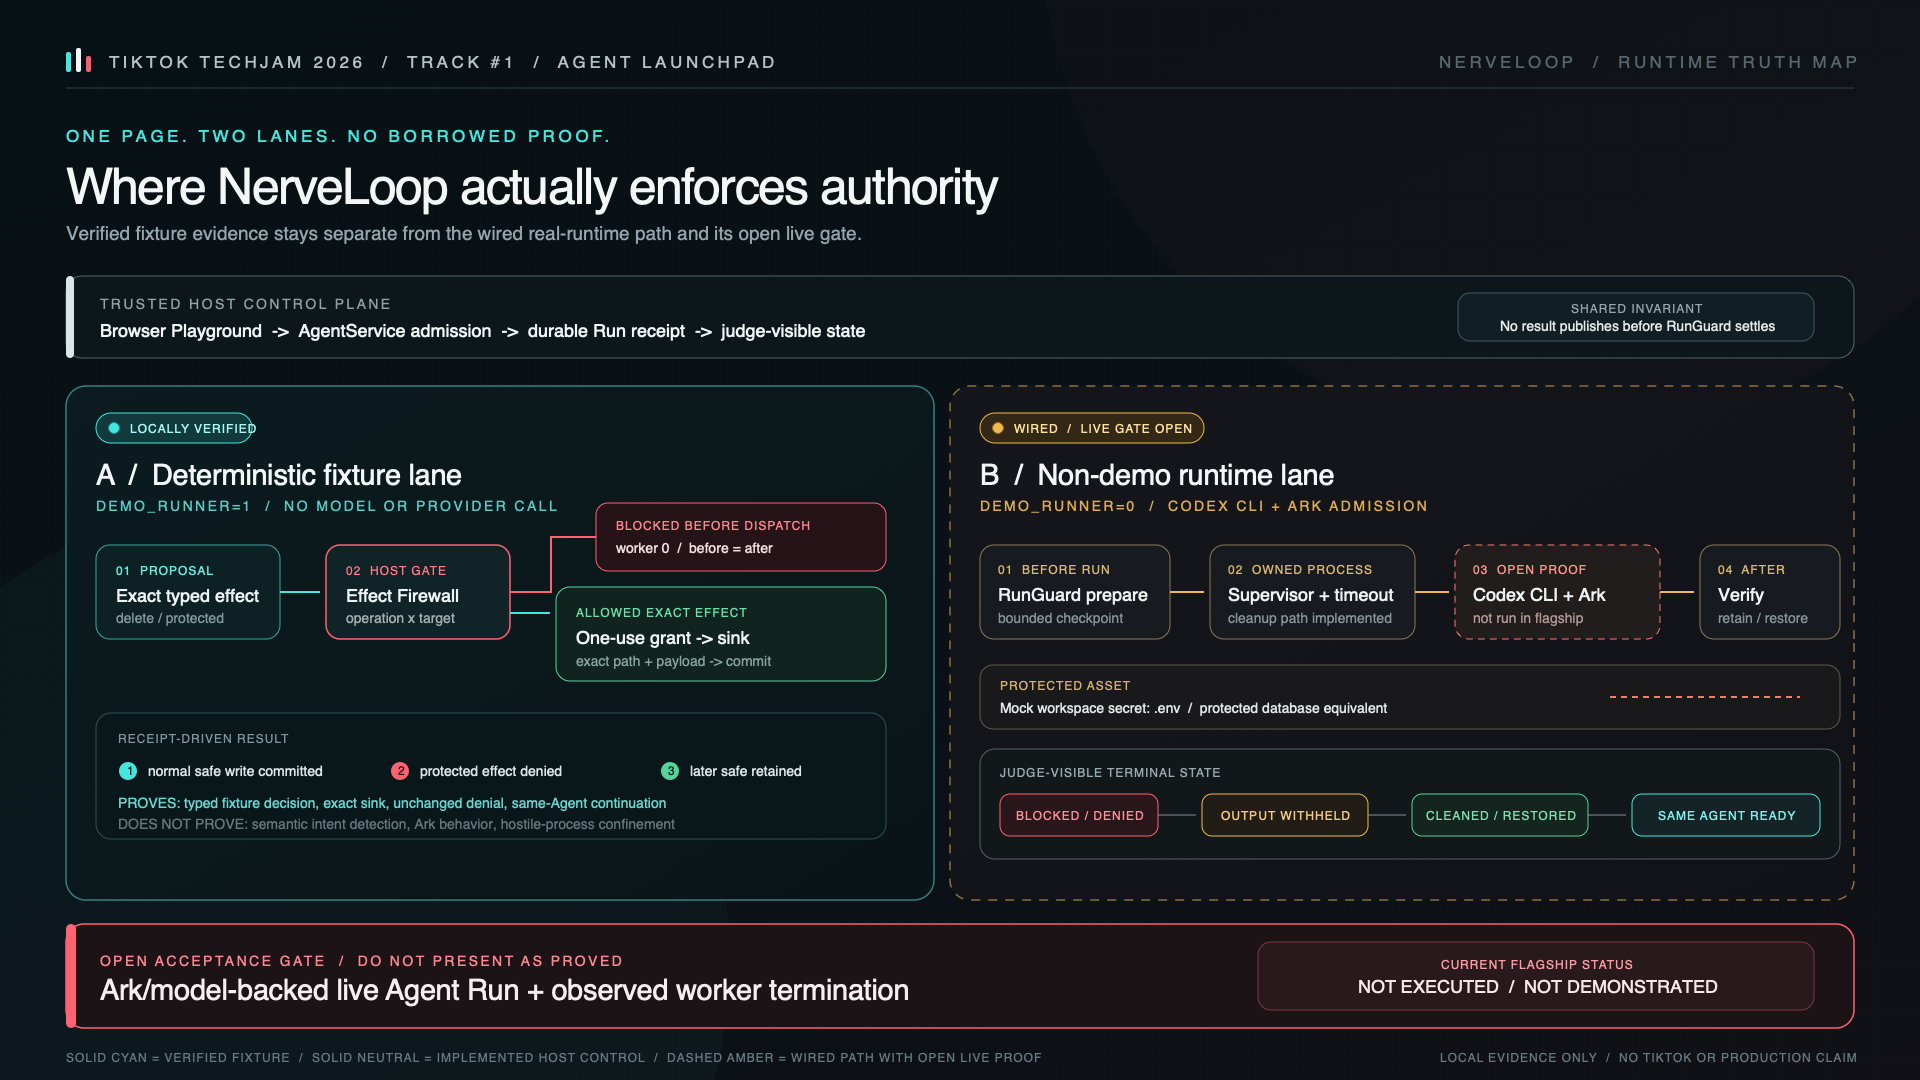
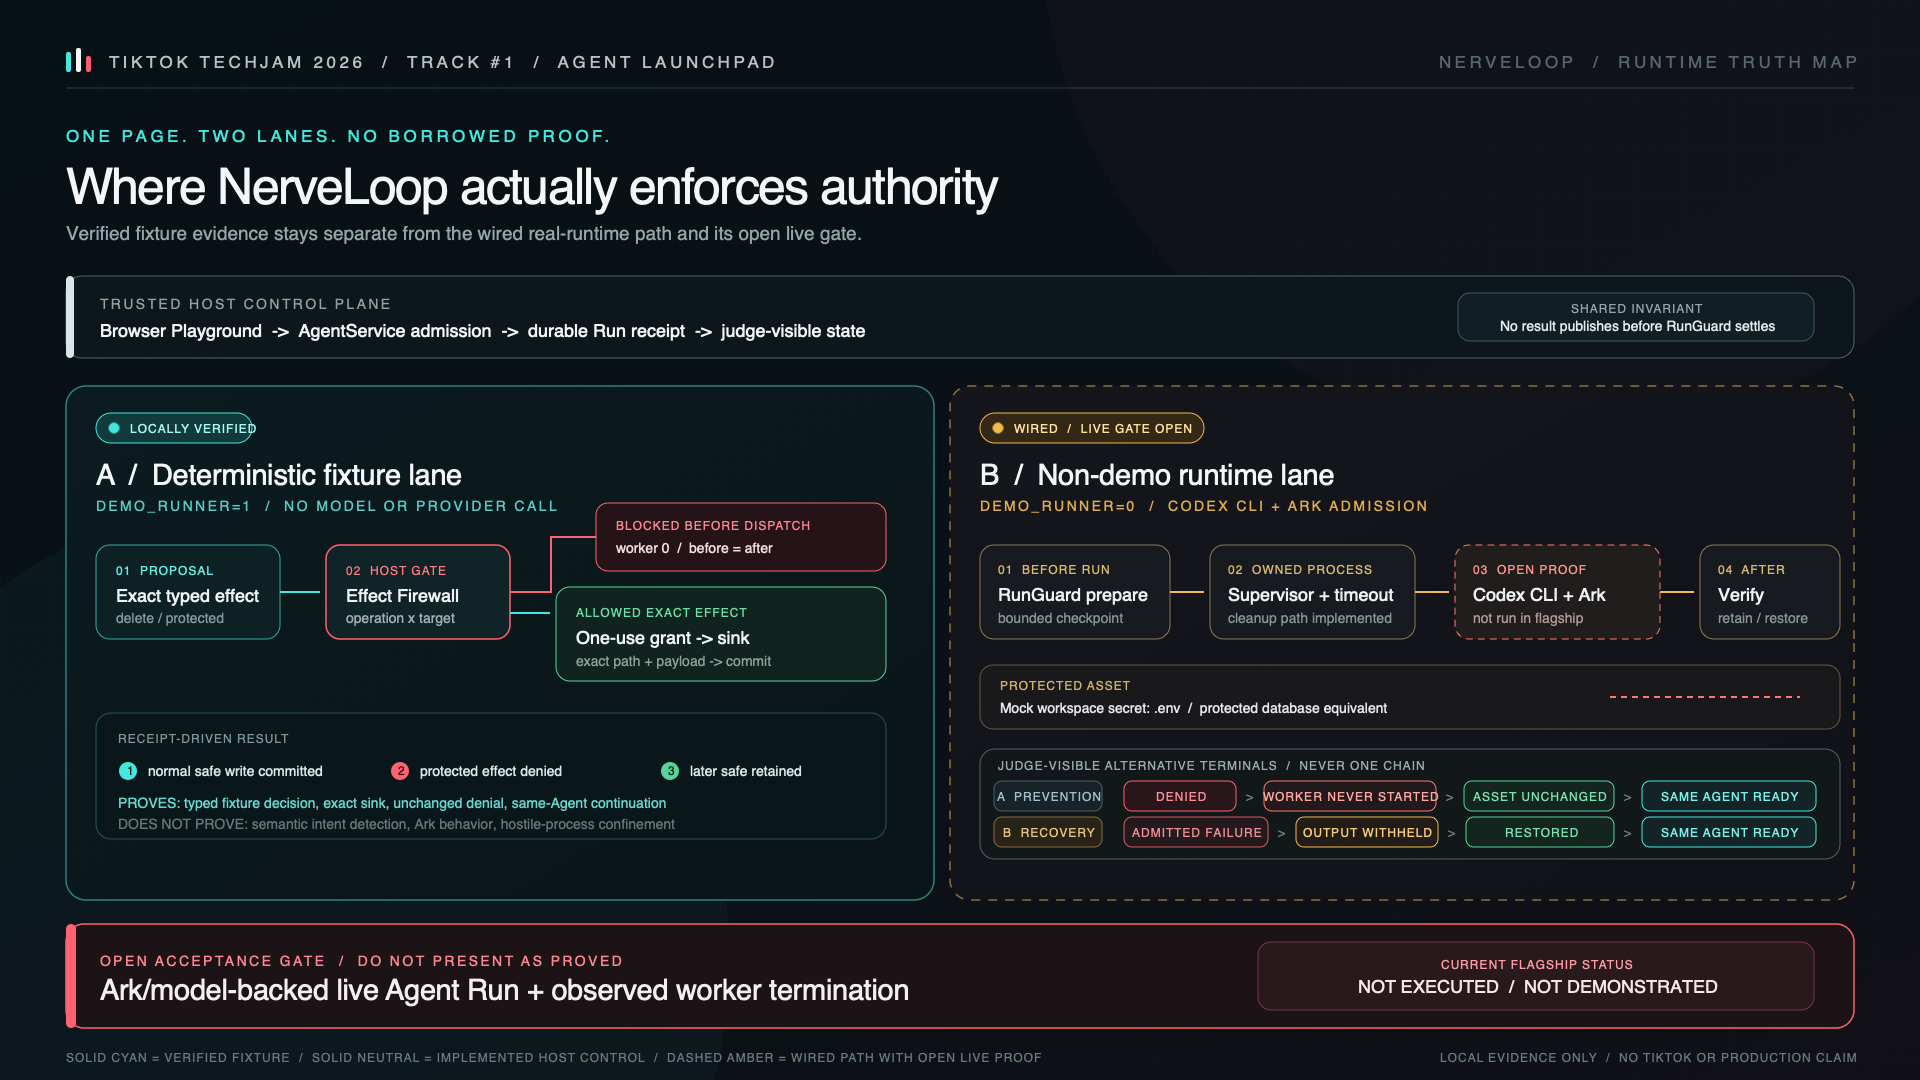
docs: finalize judge copy and runtime boundary

Changed region(s): [[0.5, 0.7028, 0.9375, 0.7944]]

diff --git a/research/2026-09-01-continuous-candidate-voiceover.md b/research/2026-09-01-continuous-candidate-voiceover.md
@@ -27,10 +27,10 @@ mix review against the exact export.
 |---|---|---|
 | 00:00.000–00:07.500 | Useful work gives way to a risky next request. | “An agent can do useful work, then ask for one action that should never happen.” |
 | 00:09.350–00:17.500 | Host and agent boundary. | “NerveLoop keeps that decision outside the agent. The agent proposes; the host decides what may run.” |
-| 00:19.700–00:23.000 | Exact-bundle Web UI; Agent creation and normal Run. | “This is the exact clean bundle, running locally with a deterministic, no-model fixture.” |
-| 00:23.150–00:26.900 | Protected proposal and pre-dispatch receipt. | “The protected delete is denied before dispatch. The worker never starts, and the asset stays unchanged.” |
-| 00:27.050–00:31.000 | Separate admitted fault and RunGuard receipt. | “Now a different fault runs. RunGuard detects the drift, withholds the output, and restores the checkpoint.” |
-| 00:31.150–00:35.800 | Later-safe receipt on the same Agent. | “The same Agent remains ready and retains later-safe work. We remove the unsafe effect, not the useful session.” |
+| 00:19.700–00:23.000 | Exact-bundle Web UI; Agent creation and normal Run. | “Exact bundle. Local, deterministic, no model.” |
+| 00:23.150–00:26.900 | Protected proposal and pre-dispatch receipt. | “Protected delete denied before dispatch. Worker never starts.” |
+| 00:27.050–00:31.000 | Separate admitted fault and RunGuard receipt. | “RunGuard catches drift, withholds output, and restores the checkpoint.” |
+| 00:31.150–00:35.800 | Later-safe receipt on the same Agent. | “The same Agent stays ready and retains later-safe work.” |
 | 00:36.817–00:43.717 | Typed proposal. | “The fixture becomes a typed action and target. Unknown or extra fields fail closed.” |
 | 00:47.517–00:53.517 | Monotone authority gate. | “The rule is small and monotone: greater risk can narrow authority, never widen it.” |
 | 01:00.917–01:08.217 | Causal receipt. | “The receipt separates prevention from repair: zero worker dispatch, zero changed files, and no rollback disguised as prevention.” |
@@ -38,7 +38,7 @@ mix review against the exact export.
 | 01:22.617–01:30.517 | RunGuard procedural scene. | “If admitted work crosses scope, RunGuard verifies, restores, or holds before another Run.” |
 | 01:34.917–01:43.417 | Architecture. | “Policy decides. A one-use grant limits the cooperative sink. RunGuard checks the result.” |
 | 01:48.317–01:58.917 | Six-round comparison. | “Across six local rounds, reset-all touched thirty-two logical paths, prevention touched zero, and bounded rollback touched one. Those are path counts, not speed.” |
-| 02:02.617–02:09.817 | Adversarial matrix. | “The wider matrix exercises policy denial, protected drift, recovery faults, and later-safe continuation across one hundred fifty-six local cases and sequences.” |
+| 02:02.617–02:09.817 | Adversarial matrix. | “The one-hundred-fifty-six-case matrix spans policy denial, protected drift, recovery faults, and safe continuation.” |
 | 02:15.017–02:24.217 | Proof boundary. | “The real Runtime already has checkpoint and rollback, but typed pre-dispatch control has not been proven with Ark or a model.” |
 | 02:25.417–02:33.917 | Closing principle. | “What we prove is narrower and useful: prevention, recovery, and safe continuation are three different facts.” |
 

diff --git a/devpost-submission.md b/devpost-submission.md
@@ -24,8 +24,8 @@ rollback, and retained a later safe Run. The 156-second review candidate adds a
 browser-to-API-to-AgentService-to-FixtureRunner path.
 
 The design combines a monotone action-target policy with an opaque, one-use
-grant bound to one Run, Agent, file, and payload. Across 156 cases and
-sequences, all 28 denied admission cases had zero worker dispatch, while 36/36
+grant bound to one Run, Agent, file, and payload. Across a 156-case/sequence
+matrix, all 28 denied admission cases had zero worker dispatch, while 36/36
 protected-path mutations were detected and restored. Five of six
 recovery-timing faults restored; removing the workspace parent produced the
 expected recovery-failed receipt.
@@ -38,8 +38,9 @@ separate, inspectable facts.
 
 ## Official Track
 
-**Problem Statement #1: Agent Launchpad. Selected middleware track: Track C —
-The Kill Switch (Safety and Sandboxing).**
+**Official challenge: Problem Statement #1 — Agent Launchpad: Design and Build
+Lightweight Agent Middleware. Selected subtrack: Track C — The Kill Switch
+(Safety and Sandboxing).**
 
 ## The Result in 30 Seconds
 
@@ -328,8 +329,8 @@ starter's `AgentService` and Run lifecycle as the integration seam, then adds
 typed effect admission, one-use authority, an exact cooperative sink, causal
 receipts, and bounded recovery around that flow.
 
-The `track-c` text in filenames refers to the selected official middleware
-track, Track C — The Kill Switch.
+The `track-c` text in filenames refers to the selected subtrack, Track C — The
+Kill Switch, within official Problem Statement #1: Agent Launchpad.
 
 ## Public Demo Link
 
@@ -364,10 +365,10 @@ exact clean bundle. The capture records 489 real compositor frames, averages
 28.576 observed frames per second, and transparently holds the latest observed
 frame on a 60 fps output grid. The combined film is encoded at 24 fps with the
 existing audio bed. A duplicated excerpt from that bed removes the first
-continuous experiment's 16.141-second silent gap; automated checks found no
-clipping, audio-timestamp discontinuity, or silence of at least 0.25 seconds.
-It passed full audio/video machine decode and still needs continuous human
-playback, rights review, and an explicit promotion decision.
+continuous experiment's 16.141-second silent gap. The retained receipt records
+-22.6 LUFS integrated loudness, -9.2 dBTP true peak, and no silence of at least
+0.25 seconds. It passed full audio/video machine decode and still needs
+continuous human playback, rights review, and an explicit promotion decision.
 Its exact human voiceover map is in
 [`research/2026-09-01-continuous-candidate-voiceover.md`](research/2026-09-01-continuous-candidate-voiceover.md);
 no voice was generated or recorded in this pass.
@@ -421,7 +422,7 @@ details, and final Devpost action remain open.
 
 - Team name and team-leader email: entrant-provided
 - Registration confirmation: entrant-confirmed
-- Problem statement: #1 Agent Launchpad, Track C — The Kill Switch
+- Problem statement: #1 Agent Launchpad; selected subtrack Track C — The Kill Switch
 - Public repository: current source push pending
 - Public YouTube URL: pending
 - Public demo URL: pending

diff --git a/research/evidence/2026-09-01-runtime-boundary-diagram/README.md b/research/evidence/2026-09-01-runtime-boundary-diagram/README.md
@@ -12,10 +12,13 @@ The diagram separates two architectures that must not be presented as one:
   post-run RunGuard verification/recovery. The flagship has not executed this
   lane with Ark and has not demonstrated worker termination.
 
-The terminal-state row mirrors existing receipt-driven UI states: denied,
-output withheld, checkpoint restored, and same Agent ready. The open red gate
-is deliberately conspicuous so an implementation path cannot be mistaken for
-provider-backed proof.
+The terminal-state panel renders two alternatives rather than one misleading
+sequence. Prevention ends `denied -> worker never started -> asset unchanged ->
+same Agent ready`. A separately admitted failure ends `output withheld ->
+restored -> same Agent ready`. If recovery fails, the run remains held for an
+operator and does not reconnect to the ready state. The open red gate is deliberately
+conspicuous so an implementation path cannot be mistaken for provider-backed
+proof.
 
 ## Files
 
@@ -28,8 +31,8 @@ provider-backed proof.
 - SVG parsed successfully with `xmllint --noout`.
 - PNG reports 1920 x 1080 RGBA through `sips` and `file`.
 - The PNG was visually inspected at original resolution: the two lanes, threat
-  asset, terminal states, legend, and open acceptance gate are legible with no
-  observed clipping.
+  asset, two alternative terminal branches, legend, and open acceptance gate
+  are legible with no observed clipping.
 
 This artifact does not prove an Ark/model-backed Agent Run, observed worker
 termination, hostile-process isolation, production security, TikTok access,
